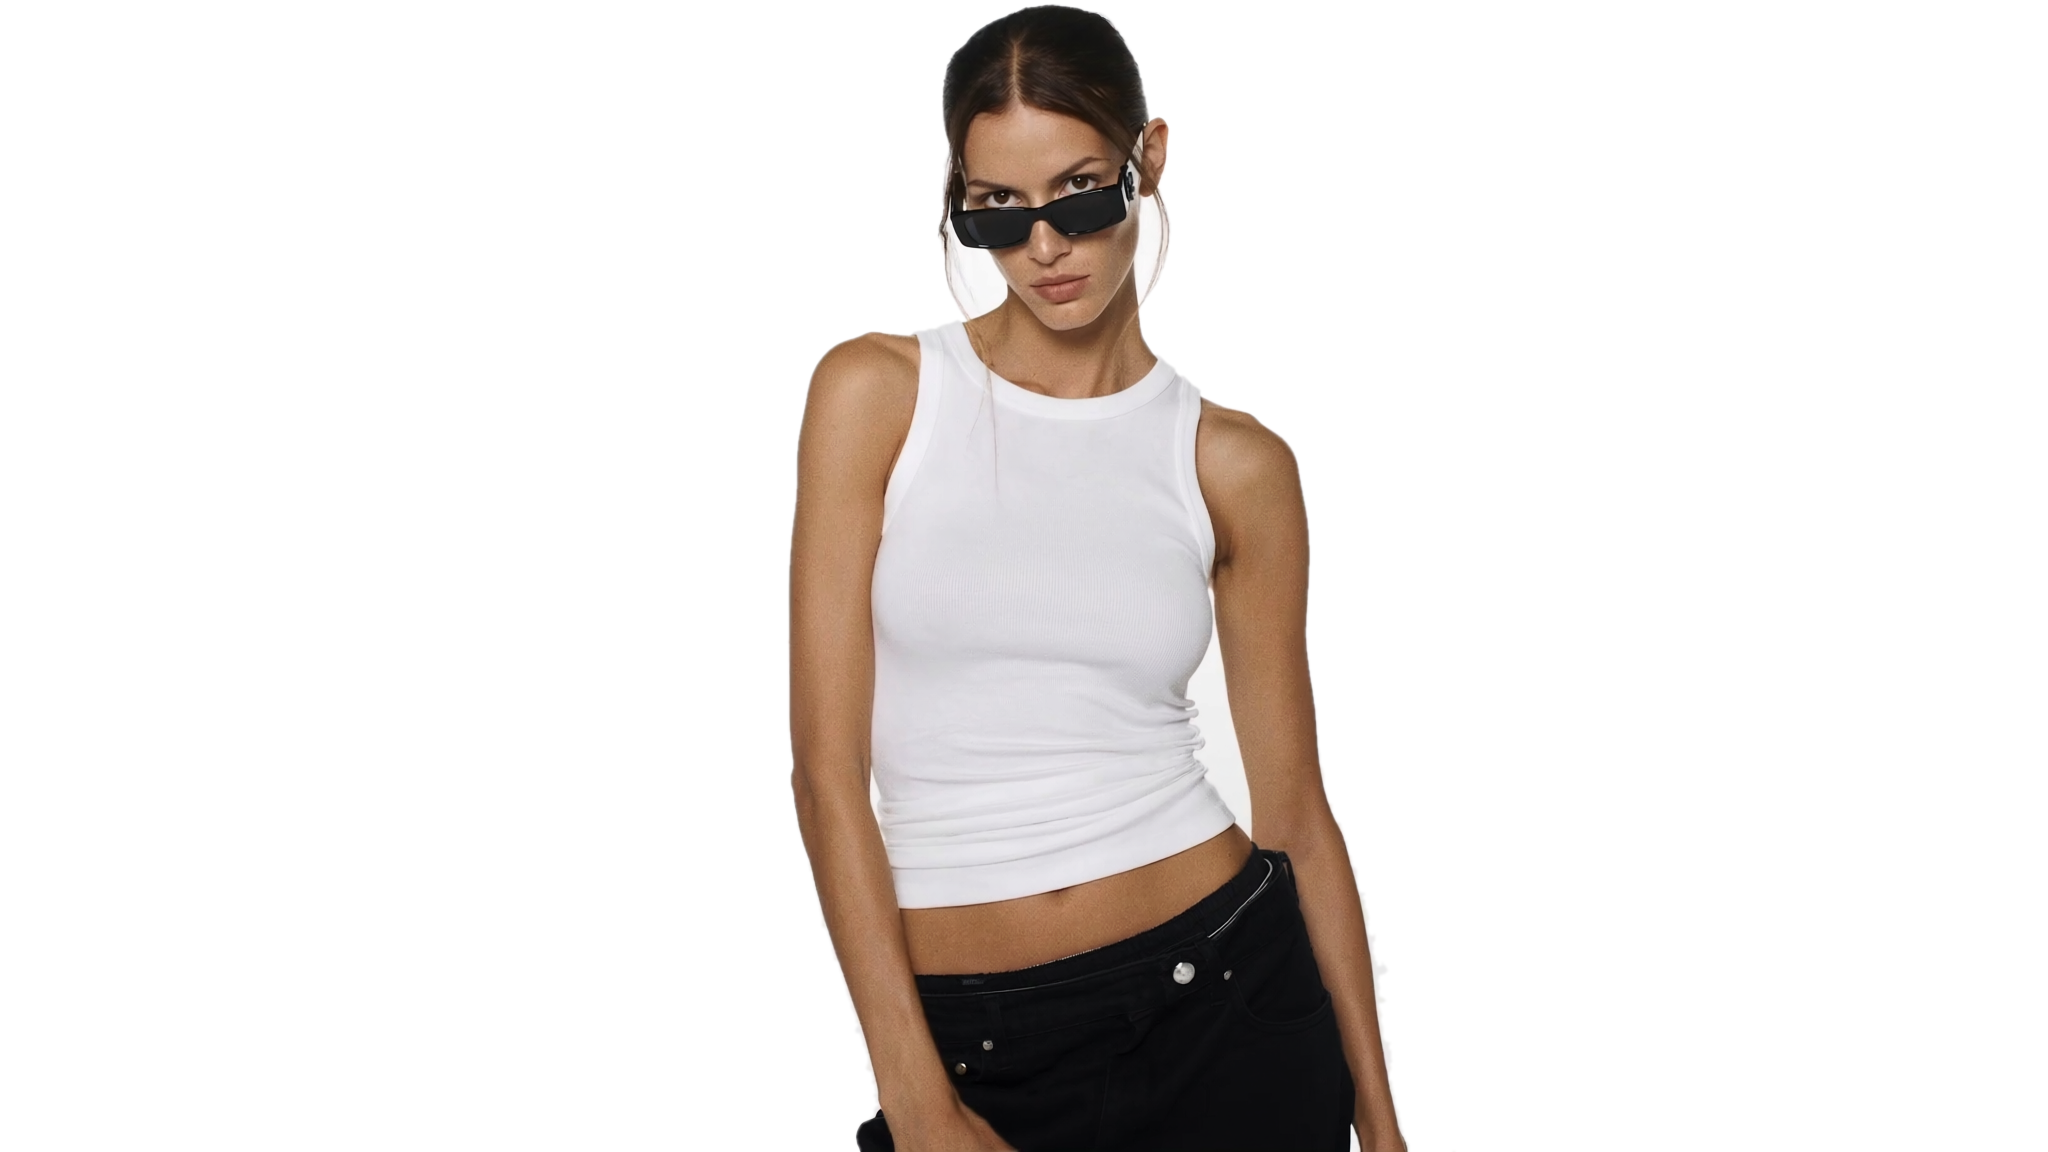
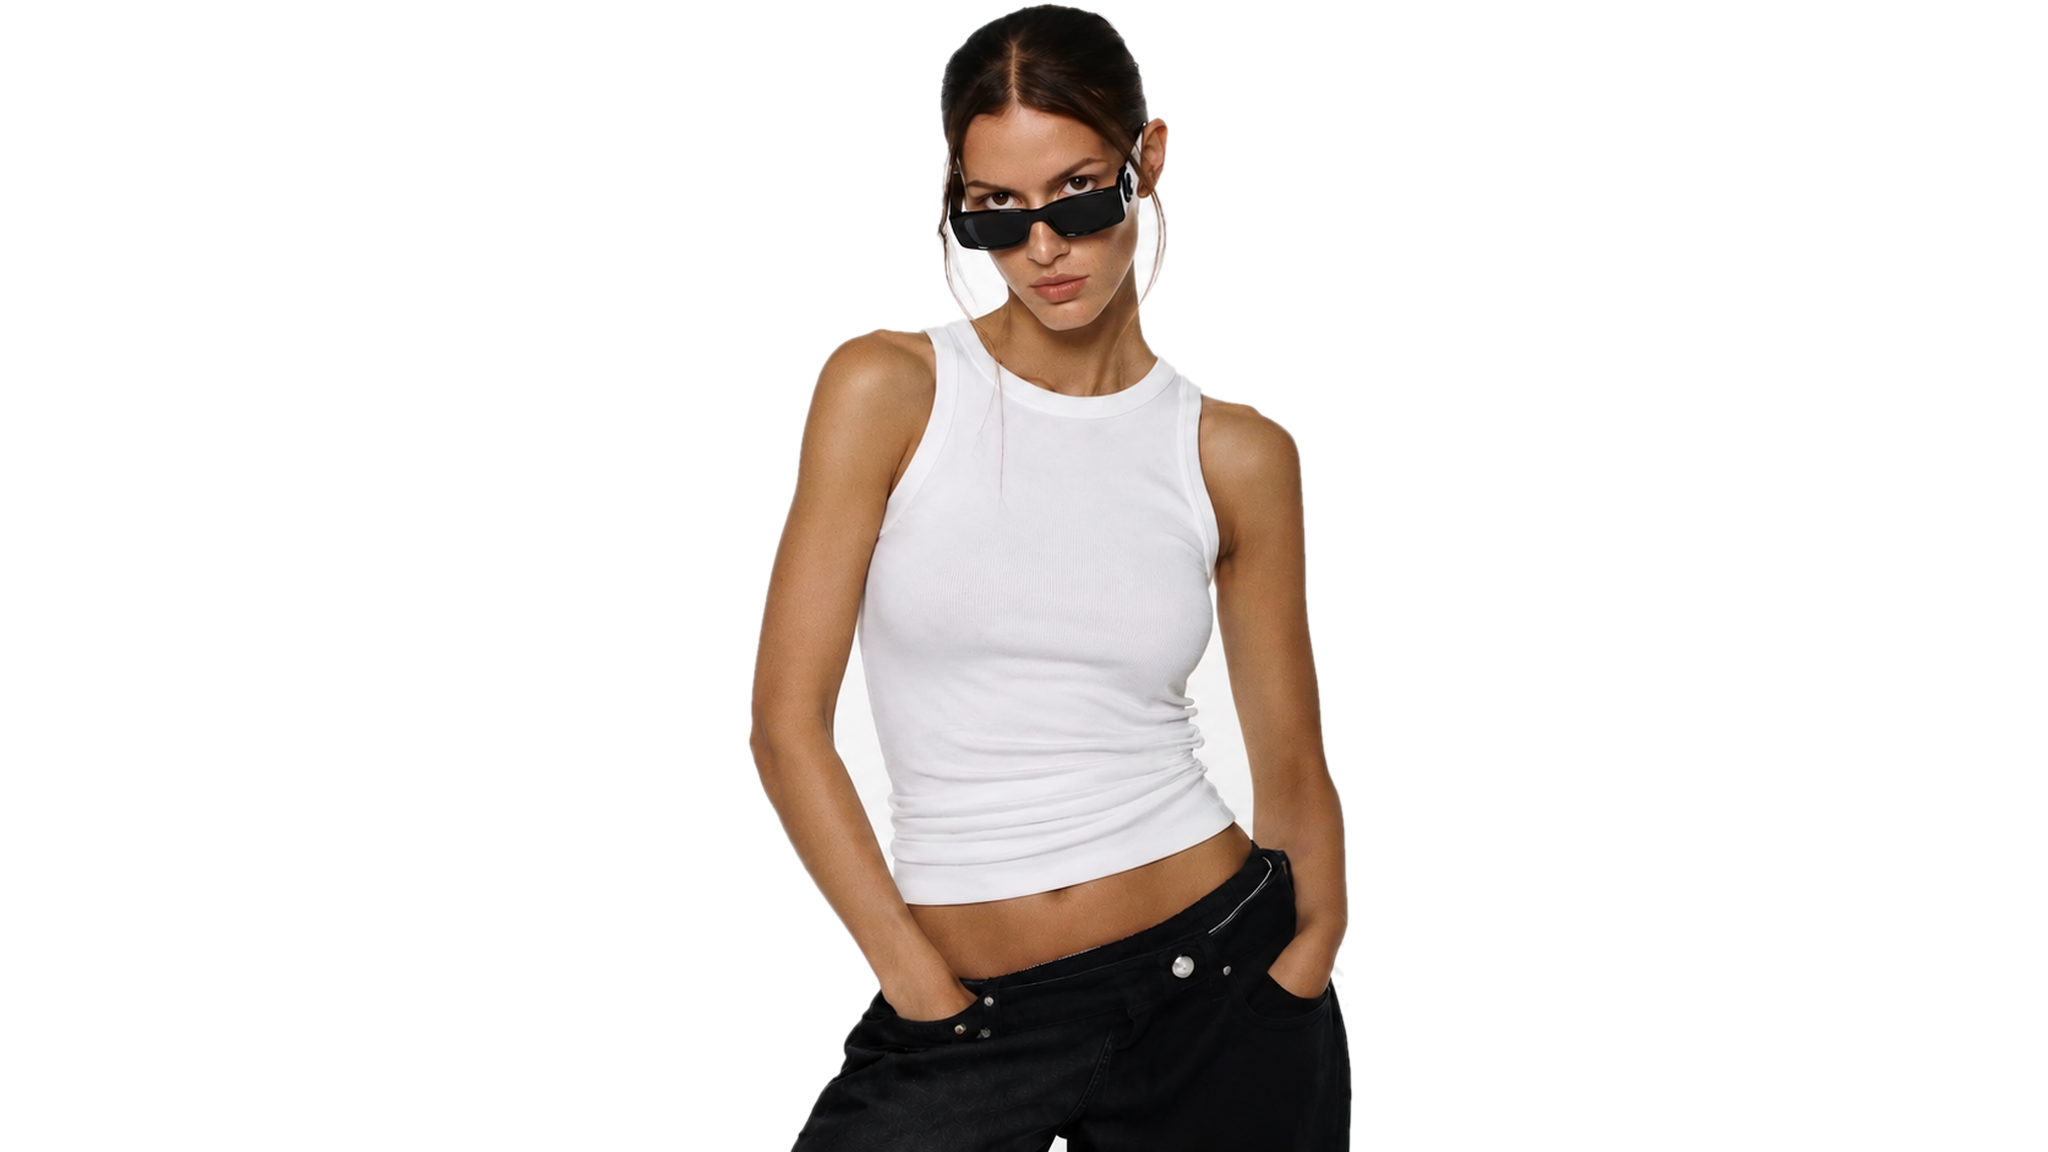
feat: новая базовая поза, куртка Mocha, без заставки

diff --git a/src/data/collection.ts b/src/data/collection.ts
@@ -18,6 +18,7 @@ export const BASE_MODEL = '/model/base.png';
 
 export const LOOKS: Look[] = [
   { id: 'grey', name: 'Куртка Grey', color: 'Серый', swatch: '#8e8f91', price: 18900, product: '/model/grey-garment.png', model: '/model/grey.png', garment: '/model/grey-garment.png' },
+  { id: 'brown', name: 'Куртка Mocha', color: 'Мокко', swatch: '#7a6553', price: 18900, product: '/model/brown-garment.png', model: '/model/brown.png', garment: '/model/brown-garment.png' },
   { id: 'olive', name: 'Накидка Olive', color: 'Оливковый', swatch: '#8a9a76', price: 12900, product: '/products/olive.png' },
   { id: 'taupe', name: 'Накидка Taupe', color: 'Тауп', swatch: '#8b7b6d', price: 12900, product: '/products/taupe.png' },
   { id: 'leopard', name: 'Накидка Leo', color: 'Леопард', swatch: '#4a3f38', price: 13900, product: '/products/leopard.png' },

diff --git a/src/app/page.tsx b/src/app/page.tsx
@@ -1,6 +1,5 @@
 import { Footer } from '@/components/Footer';
 import { Header } from '@/components/Header';
-import { Intro } from '@/components/Intro';
 import { LookSwitcher } from '@/components/LookSwitcher';
 import { Lookbook } from '@/components/Lookbook';
 import { Mosaic } from '@/components/Mosaic';
@@ -12,7 +11,6 @@ export default function Home() {
   return (
     <main className="overflow-x-clip">
       <SmoothScroll />
-      <Intro />
       <Header />
       <LookSwitcher />
       <Mosaic>
